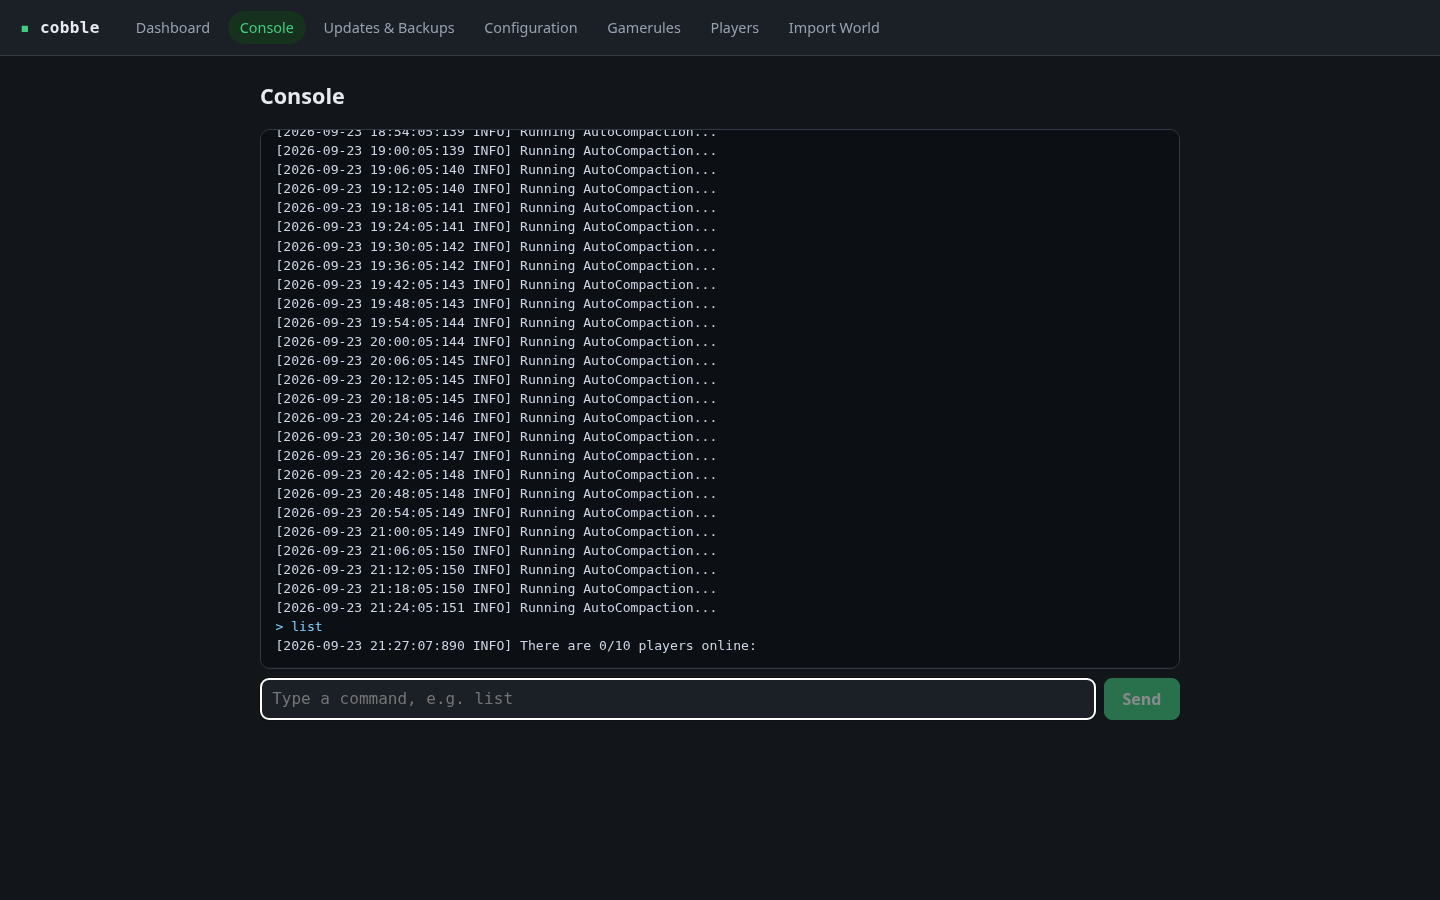
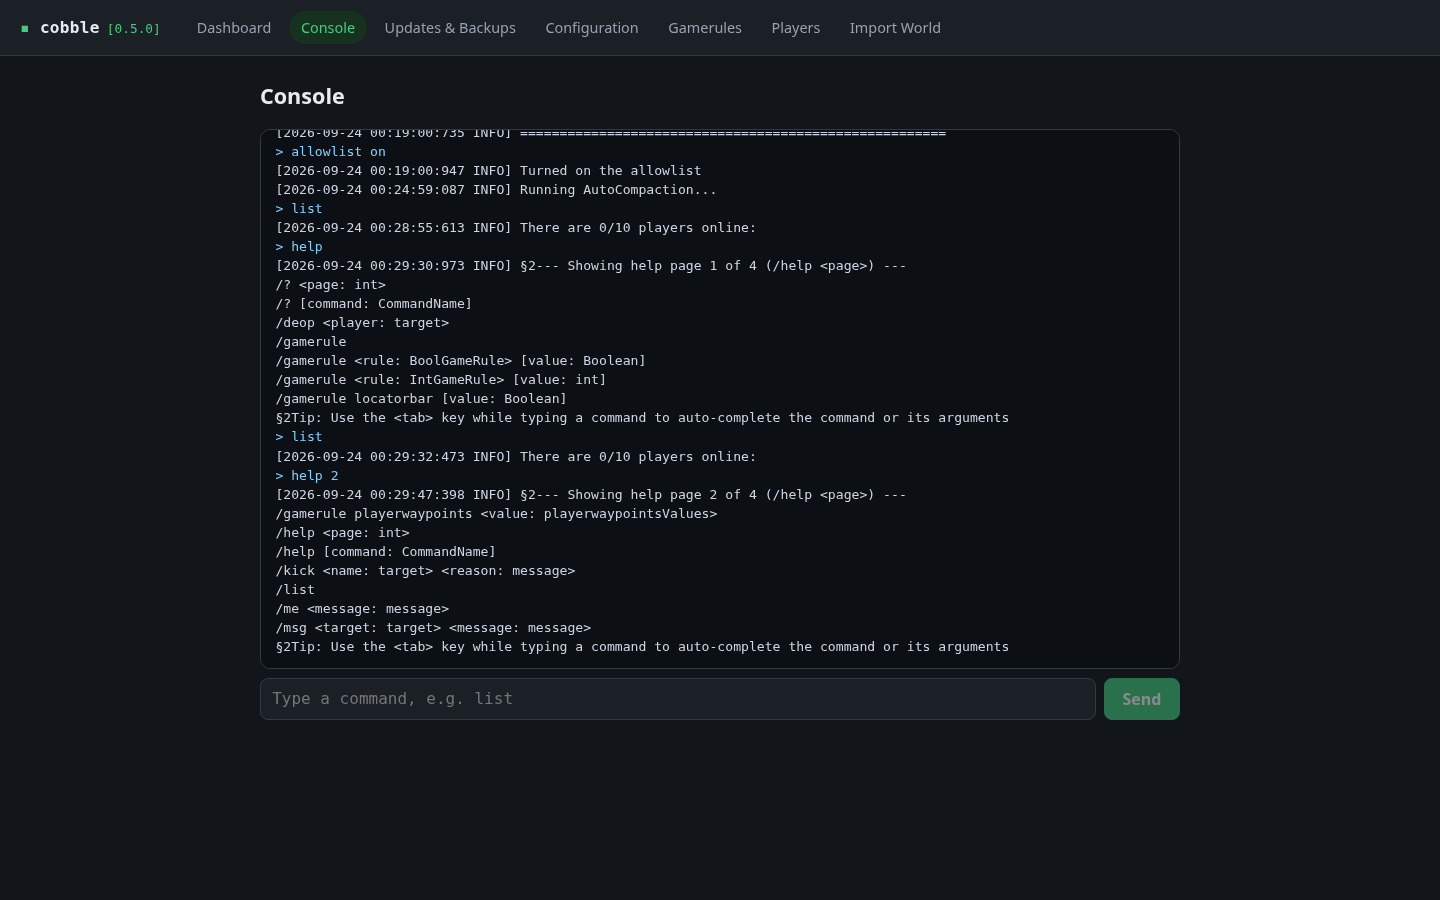
docs: retake panel screenshots on v0.5.0
All five screenshots now show the header's version badge. The Updates &
Backups shot shows the Settings tab with the new cobble card, and its
caption is updated to match. Taken from the test host at 1440x900 in dark
mode, like the originals.

diff --git a/README.md b/README.md
@@ -20,7 +20,7 @@ well on any **Debian 12 or 13** VM or bare-metal install.
 
 ![Console](docs/screenshots/console.png)
 
-**Updates & Backups** — version status, scheduled updates, restorable backups, and their history.
+**Updates & Backups** — Bedrock version status, backup and version history, and settings, including cobble's own version and one-click upgrade.
 
 ![Updates & Backups](docs/screenshots/updates.png)
 
